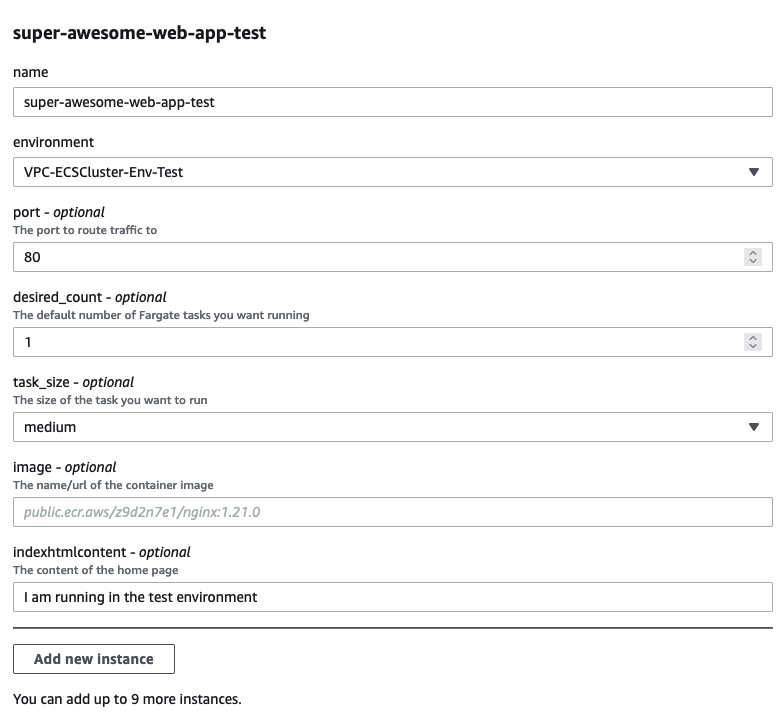
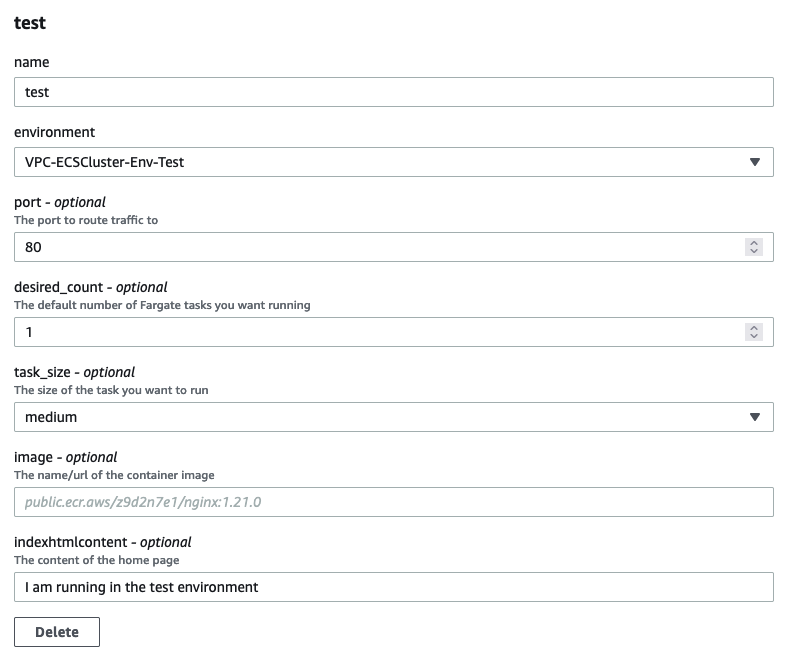
Updated README

diff --git a/vpc-ecscluster-lb-fargate-tutorial/README.md b/vpc-ecscluster-lb-fargate-tutorial/README.md
@@ -60,7 +60,7 @@ Congratulations, you have registered both your environment and service templates
 
 As a platform admin, you are going to deploy two environments. On the main console, go to `Environments` and click `Create environment`.  Select the environment template you created above and click `Configure`. 
 
-Leave all the default and select an `Environment name` (this time you can pick what you want - we suggest you pick `VPC-ECSCluster-Env-Test`). In the `Environment roles` section let Proton create a new service role for you (unless you already have one). This is the role that Proton will use to provision all the resources in your environment template. 
+Leave all the default and select an `Environment name` (this time you can pick what you want - we suggest you pick `VPC-ECSCluster-Env-Test`). In the `Environment roles` section let Proton create a new service role for you (unless you already have one). This is the role that Proton will use to provision all the resources defined in your environment template. 
 
 > Note that since Proton cannot know what you intend to deploy, this role will have an `Administrative` IAM policy associated. In a real deployment you probably want to downgrade that policy to only include the permissions this role requires. Click `Next`.
 
@@ -84,6 +84,10 @@ Please note at the bottom both the `Tags` that are used to track your deployment
 
 To recap, as an admin, you created both the environment and the service templates. Then you deployed two environments (test and production). You have prepared  the ground for a developer to start their workflows. Your job as a platform admin is done (for now).
 
+#### Configuring the CI/CD pipeline role [ PLATFORM ADMIN ]
+
+xxx 
+
 #### Deploying the service [ DEVELOPER ]
 
 If you have used specific IAM users/roles it is now a good time to switch to the developer role/user. As a developer you want to focus on building code and you may or may not know much about AWS. 
@@ -94,14 +98,28 @@ In the `Service repository settings` you should select the fork of the applicati
 
 Fill the first instance with these parameters: 
 
-![environments](../images/service-instance-1.png)
+![service-instance-test](../images/service-instance-test.png)
 
 On the same page click on `Add new instance` and fill the second instance with similar parameters. Change only the following parameters: 
 - the `name` of the second instance should be `production`
 - the `environment` should be set to the production environment
 - its `indexhtmlcontent` variable should be `I am running in the production environment` 
 
-Leave everything else at the defaults, click `Next` and at the summary page click `Create`. 
+Leave everything else at the defaults, click `Next` and at the summary page click `Create`.
 
+| Please avoid using long names for the service and service instances because they are chained in the CFN template and there is a size limit. 
 
+This will take a few minutes to create the test and prod infrastructure (Proton service instances) that represent the load balanced Fargate service along with the pipeline that checks for changes on the application repository (the nginx custom application). Congratulations, you have deployed your first Proton service! 
+
+| Important note on IAM roles: note that the developer does not need to specify an IAM role to assume for deploying the resources as part of the wizard. Proton will use the IAM roles the administrator has specified when deploying the environments these service instances bind to.   
+
+This is how the `Overview` tab of your service should look like: 
+
+![service-overview](../images/service-overview.png)
+
+And this is how the `Pipeline` tab of your service should look like: 
+
+![service-pipeline](../images/service-pipeline.png)
+
+Note how the developer has a feedback right inside the Proton console about the various pipeline stages with a link to the pipeline itself in the `Outputs` should they need further details. 
 
